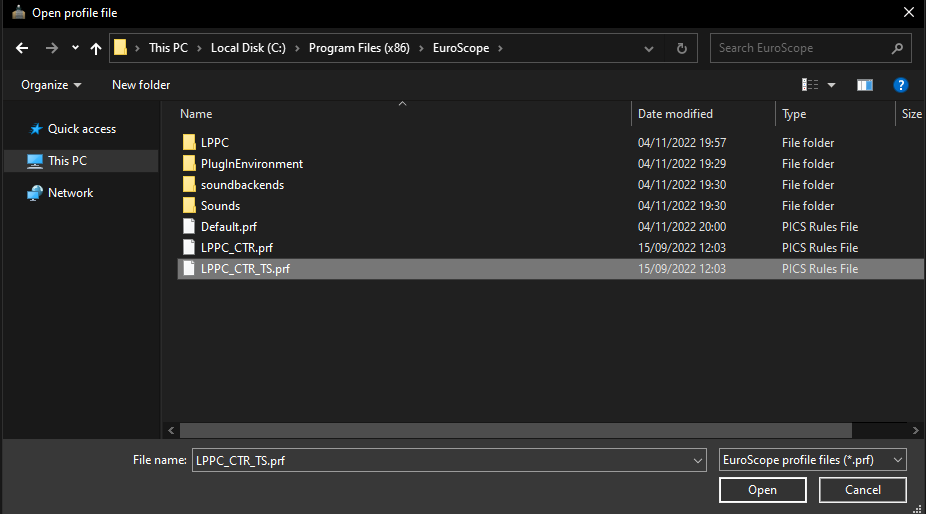
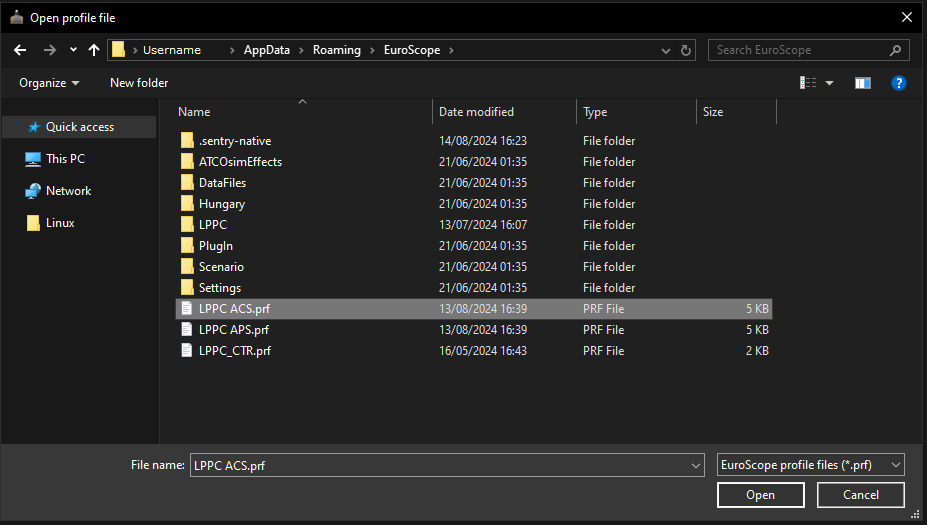
Update installation instructions with new prfs

Changed region(s): [[0.0, 0.0, 1.0, 1.0], [0.0, 0.1556, 0.0907, 0.1868]]

diff --git a/index.md b/index.md
@@ -57,7 +57,7 @@
 
 17.  Navigate to '%appdata%\EuroScope\LPPC\Plugins\topsky' and open the 'TopSkyCPDLChoppieCode.txt'. Replace the file's contents with your Hoppie code. If you do not have a code you need to request one at https://www.hoppie.nl/acars/system/register.html
 
-18.  Open EuroScope again. When prompted to 'Open a profile file', navigate to '%appdata%\EuroScope' and open the 'LPPC_CTR_TS.prf' file.
+18.  Open EuroScope again. When prompted to 'Open a profile file', navigate to '%appdata%\EuroScope' and open the 'LPPC APS.prf' file when controlling APP and lower positions, or the 'LPPC ACS.prf' file when controlling CTR enroute positions.
 
      ![Download](/assets/img/prof.png)
 
